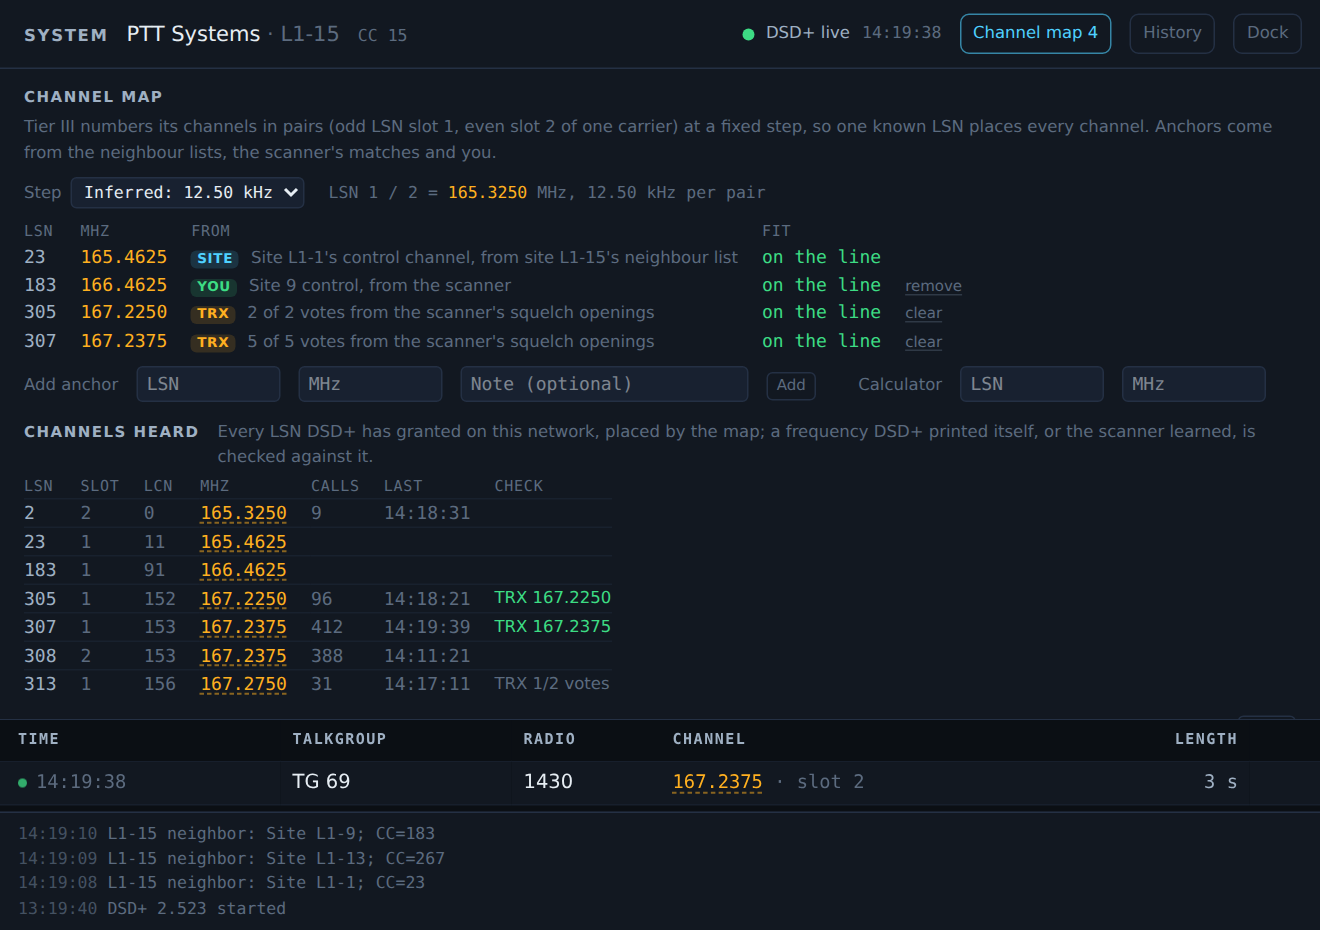
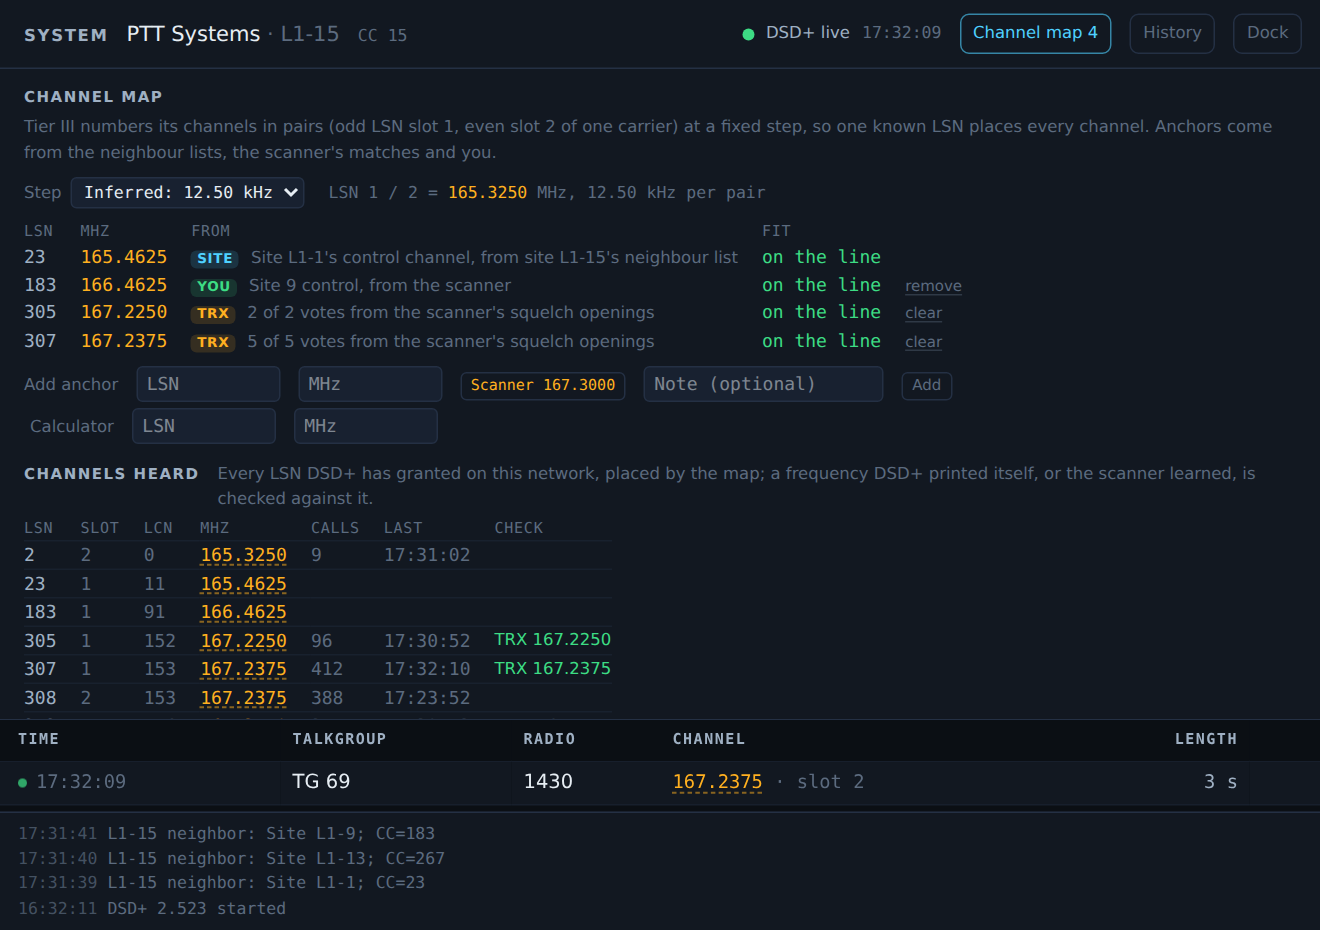
Channel map: no votes from a parked control channel, a Scanner button, the control channel from where the scanner parks
A scanner sat on a Tier III control channel (a Service Search parks on it) has its squelch flutter there every
few seconds, and every grant DSD+ printed found such a re-opening in its window: on the TfL site on 2 Oct 2026
the learner "learned" 1701 and 1716 as the control channel, 139.53125. An opening now counts only when the
scanner has just arrived on the frequency (ARRIVAL_MS, 2 s), so a stop still votes and a parked channel never does.

The add-anchor row gets a Scanner button that fills the MHz box with the frequency the scanner is on, so on a
control channel only the LSN is typed. And where the scanner parks is recorded as the site's control channel
(parkedControlChannel: squelch open 30 s on one frequency with DMR details on the display while DSD+ is live on
the site), so a neighbour list naming this site's control LSN can anchor the map and History shows the control.

Claude-Session: https://claude.ai/code/session_015KGVaMSLRV6V5Jci2arzek

diff --git a/src/main/index.ts b/src/main/index.ts
@@ -2,7 +2,7 @@ import { app, BrowserWindow, dialog, ipcMain, nativeTheme, net, safeStorage, scr
 import { readFile, writeFile } from 'node:fs/promises';
 import { existsSync, readFileSync } from 'node:fs';
 import { dirname, join } from 'node:path';
-import { Key, isKeyCode } from '@trxcontroller/rcip';
+import { Key, isKeyCode, parseScanScreen, parseSearchScreen } from '@trxcontroller/rcip';
 import { IPC, MAP_MIN_WINDOW, type AppInfo, type DayLog, type WindowState, type ImportResult, type LogCursor, type MapDockSide, type MapTarget, type PortsResult, type ReceptionRow, type RepeaterMatch, type ScannerSnapshot, type Settings, type UpdateInfo, type WtrMatch } from '../shared/ipc';
 import { isDayKey } from '../shared/dayMap';
 import { locateCdat, readCdat, writeCdat } from './programming/locate';
@@ -66,6 +66,13 @@ function saveChannels(): void {
 }
 /** The squelch as last seen, so each opening (or move while open) is one vote at most. */
 let lastSquelch: { rf: boolean; hz: number } = { rf: false, hz: 0 };
+/** The frequency the scanner is on and since when, for the learner (a stop is a fresh arrival) and the parked-control-channel fact. */
+let onFrequency: { hz: number; since: number; openSince: number | null; dmr: boolean } = { hz: 0, since: 0, openSince: null, dmr: false };
+/**
+ * A scanner whose squelch has stayed open this long on one frequency while DSD+ is decoding a site, the display showing
+ * DMR details, is sat on that site's control channel (a Service Search parks on it; a voice channel drops between calls).
+ */
+const CC_PARK_MS = 30_000;
 const mapDock: WindowDock = new WindowDock({
   main: () => win,
   win: () => mapWin,
@@ -210,6 +217,31 @@ function learnDsdSystem(s: ScannerSnapshot): void {
   publishDsd(dsd.status());
 }
 
+/**
+ * The control channel from where the scanner parks: squelch open `CC_PARK_MS` on one frequency with DMR details on the
+ * display while DSD+ is live on a site is that site's control channel (DSD+ prints it only as a channel number). Recorded
+ * as the site's fact once per session, so a neighbour list naming this site's control LSN can anchor the channel map,
+ * and the History sites table can show it. A fact from the scanner's trunked header, when there is one, was written first
+ * and stays (the upsert keeps the first frequency).
+ */
+function parkedControlChannel(): void {
+  if (!dsd || !db || onFrequency.openSince === null || !onFrequency.dmr || onFrequency.hz <= 0) return;
+  const now = Date.now();
+  if (now - onFrequency.openSince < CC_PARK_MS) return;
+  const status = dsd.status();
+  const site = status.feed.site;
+  const networkKey = status.feed.network?.key;
+  if (!site || !networkKey || !status.alive || status.feed.lastEventAt === null || now - status.feed.lastEventAt > 15_000) return;
+  const code = status.feed.nac ? `NAC ${status.feed.nac}` : status.feed.dcc !== null ? `CC ${status.feed.dcc}` : null;
+  const key = `${networkKey}|${site.id}|${onFrequency.hz}|${code ?? ''}`;
+  if (recordedSites.has(key)) return;
+  recordedSites.add(key);
+  console.log(`[dsd] site ${site.id} control channel ${(onFrequency.hz / 1e6).toFixed(5)} MHz (the scanner has sat on it ${Math.round((now - onFrequency.openSince) / 1000)} s)`);
+  db.recordDsdEvents([siteEventRow(networkKey, site.id, site.name, onFrequency.hz, code, now)]);
+  siteFactsCache = null;
+  publishDsd(status);
+}
+
 /** The identity the user confirmed for the current frequency, tone and talkgroup, if any. */
 function confirmedFor(s: ScannerSnapshot): ScannerSnapshot['confirmed'] {
   const d = describeSnapshot(s);
@@ -285,12 +317,26 @@ const session = new ScannerSession(serialTransportFactory, {
     const s = enrich(raw);
     broadcast(IPC.snapshot, s);
     logger?.onSnapshot(s);
+    // Where the scanner is and for how long: a change of frequency is an arrival, an opening on a frequency it has sat on is not a stop.
+    {
+      const now = Date.now();
+      const rf = !!s.status?.squelch.rf;
+      const hz = s.status?.frequencyHz ?? 0;
+      if (hz !== onFrequency.hz) onFrequency = { hz, since: now, openSince: null, dmr: false };
+      if (!rf) onFrequency.openSince = null;
+      else if (onFrequency.openSince === null) onFrequency.openSince = now;
+      if (rf && s.lcd) {
+        const screen = (s.status?.mode === 0x0a ? parseScanScreen(s.lcd) : null) ?? parseSearchScreen(s.lcd);
+        if (screen && (screen.colorCode !== null || screen.slot !== null)) onFrequency.dmr = true;
+      }
+    }
+    parkedControlChannel();
     // The channel learner: an opening (or a move while open) is one half of a vote, the other half DSD+'s grant.
     if (channels) {
       const now = Date.now();
       const rf = !!s.status?.squelch.rf;
       const hz = s.status?.frequencyHz ?? 0;
-      if (rf && (!lastSquelch.rf || lastSquelch.hz !== hz)) channels.opening(now, hz);
+      if (rf && (!lastSquelch.rf || lastSquelch.hz !== hz)) channels.opening(now, hz, now - onFrequency.since);
       lastSquelch = { rf, hz };
       channels.tick(now);
       if (channels.takeChanged()) {

diff --git a/docs/index.html b/docs/index.html
@@ -425,7 +425,7 @@
             <img src="img/system-history.png" alt="The System window's History view: Day / Week / Month / All, a date, counts for the period, calls per hour as small bars, a sites table with control channel, code and neighbours, a table of talkgroups with calls, radios, airtime, active period and the radios heard on each as chips, and a table of radios with their talkgroups, private-call partners, registrations and last heard" width="1320" height="930" loading="lazy">
             <figcaption>History, the network map: a recorded day on the P25 system, sites first, then the talkgroups and the radios, each linked to the other.</figcaption>
           </figure>
-          <p>On a site that is not in DSD+'s frequencies file, DSD+ prints channel numbers ("ch 306") and cannot say what frequency they are. The TRX can: each time the scanner's squelch opens within a moment of such a grant is a vote, two consistent votes learn the channel, and from then on the window shows the frequency (dotted, to say it was learned) and the TRX marker can match on it. <b>Channel map</b> (or C) goes further on a DMR Tier III network: Tier III numbers its channels in pairs (odd LSN slot 1, even slot 2 of one carrier) at a fixed step, so one known channel places every other. The panel gathers the anchors it can (a neighbour list's control channel number joined to the control frequency the scanner reported for that site, the channels learned from the scanner, and any LSN and frequency you type), infers the step (6.25 / 12.5 / 25 kHz, or choose it), draws the line, flags an anchor off it, lists every channel heard with its slot, LCN and frequency, has an LSN ↔ MHz calculator, and writes the <code>DSDPlus.frequencies</code> lines for the lot, which is what DSD+ needs to voice-follow the site itself; calls on the map show their frequency dashed, and a <b>clear</b> link beside a learned channel forgets its votes, for a frequency learned from a coincidence. Hours of working a channel plan out by hand, done as the calls land. A DMR trunked site is where this matters; P25 sites broadcast their band plan and DSD+ prints the frequency anyway.</p>
+          <p>On a site that is not in DSD+'s frequencies file, DSD+ prints channel numbers ("ch 306") and cannot say what frequency they are. The TRX can: each time the scanner's squelch opens within a moment of such a grant is a vote, two consistent votes learn the channel, and from then on the window shows the frequency (dotted, to say it was learned) and the TRX marker can match on it. <b>Channel map</b> (or C) goes further on a DMR Tier III network: Tier III numbers its channels in pairs (odd LSN slot 1, even slot 2 of one carrier) at a fixed step, so one known channel places every other. The panel gathers the anchors it can (a neighbour list's control channel number joined to the control frequency the scanner reported for that site, or sat on for half a minute while DSD+ decoded it, the channels learned from the scanner, and any LSN and frequency you type, a button filling in the frequency the scanner is on), infers the step (6.25 / 12.5 / 25 kHz, or choose it), draws the line, flags an anchor off it, lists every channel heard with its slot, LCN and frequency, has an LSN ↔ MHz calculator, and writes the <code>DSDPlus.frequencies</code> lines for the lot, which is what DSD+ needs to voice-follow the site itself; calls on the map show their frequency dashed, and a <b>clear</b> link beside a learned channel forgets its votes, for a frequency learned from a coincidence. Hours of working a channel plan out by hand, done as the calls land. A DMR trunked site is where this matters; P25 sites broadcast their band plan and DSD+ prints the frequency anyway.</p>
           <figure>
             <img src="img/system-dmr.png" alt="The System window on a DMR trunked site: PTT Systems, site L1-15, colour code 15; the Channel map panel with the step inferred as 12.5 kHz and LSN 1 at 165.3250 MHz, four anchors (a neighbour list's, a typed one, two learned from the scanner) all on the line, the add-anchor and calculator boxes, the channels heard with slot, LCN, frequency and calls, and the DSDPlus.frequencies lines to copy" width="1320" height="930" loading="lazy">
             <figcaption>A DMR Tier III site with channel numbers only: the channel map from four anchors, every channel heard placed on it, and the lines for DSD+'s frequencies file.</figcaption>

diff --git a/src/renderer/src/components/ChannelMapPanel.tsx b/src/renderer/src/components/ChannelMapPanel.tsx
@@ -22,7 +22,7 @@ const kHz = (hz: number): string => `${(hz / 1000).toFixed(hz % 1000 === 0 ? 0 :
  * with its frequency on the map, and the `DSDPlus.frequencies` lines that follow. Everything the user types is kept
  * per network in main (`dsd:map-set`); the map itself is built there so every window agrees.
  */
-export default function ChannelMapPanel({ status }: { status: DsdStatus }): React.JSX.Element {
+export default function ChannelMapPanel({ status, scannerHz }: { status: DsdStatus; scannerHz: number | null }): React.JSX.Element {
   const info = status.map;
   const map = info?.map ?? null;
   const settings: ChannelMapSettings = info?.settings ?? { stepHz: null, anchors: [] };
@@ -188,13 +188,23 @@ export default function ChannelMapPanel({ status }: { status: DsdStatus }): Reac
         <span className="text-[11px] text-ink-3">Add anchor</span>
         <input className={INPUT} placeholder="LSN" value={lsnIn} onChange={(e) => setLsnIn(e.target.value)} onKeyDown={(e) => e.key === 'Enter' && addAnchor()} />
         <input className={INPUT} placeholder="MHz" value={mhzIn} onChange={(e) => setMhzIn(e.target.value)} onKeyDown={(e) => e.key === 'Enter' && addAnchor()} />
-        <input className={`${INPUT} w-48`} placeholder="Note (optional)" value={noteIn} onChange={(e) => setNoteIn(e.target.value)} onKeyDown={(e) => e.key === 'Enter' && addAnchor()} />
+        {scannerHz !== null && scannerHz > 0 && (
+          <button
+            type="button"
+            className="no-drag rounded border border-edge px-1.5 py-px font-mono text-[10px] text-amber hover:border-amber/60"
+            title="Use the frequency the scanner is on (parked on a Tier III control channel, that is the control channel's LSN to type)"
+            onClick={() => setMhzIn(mhzText(scannerHz))}
+          >
+            Scanner {mhzText(scannerHz)}
+          </button>
+        )}
+        <input className={`${INPUT} w-40`} placeholder="Note (optional)" value={noteIn} onChange={(e) => setNoteIn(e.target.value)} onKeyDown={(e) => e.key === 'Enter' && addAnchor()} />
         <button type="button" className="no-drag rounded border border-edge px-1.5 py-px font-sans text-[10px] text-ink-3 hover:text-ink" onClick={addAnchor} disabled={!network}>
           Add
         </button>
         {map && (
-          <>
-            <span className="ml-4 text-[11px] text-ink-3">Calculator</span>
+          <span className="flex items-baseline gap-3">
+            <span className="ml-1 text-[11px] text-ink-3">Calculator</span>
             <input
               className={INPUT}
               placeholder="LSN"
@@ -214,7 +224,7 @@ export default function ChannelMapPanel({ status }: { status: DsdStatus }): Reac
               }}
             />
             <span className="font-mono text-[11px] text-ink">{calcOut()}</span>
-          </>
+          </span>
         )}
       </div>
 

diff --git a/src/shared/dsdChannels.ts b/src/shared/dsdChannels.ts
@@ -12,6 +12,13 @@ export const PAIR_BEFORE_MS = 1500;
 export const PAIR_AFTER_MS = 4000;
 /** How long unmatched grants and openings are kept waiting for their other half. */
 const KEEP_MS = 10_000;
+/**
+ * An opening counts only when the scanner has just arrived on the frequency: a stop on a voice channel is a move
+ * and an opening together. A scanner parked on a Tier III control channel (a Service Search sat on it) has its
+ * squelch flutter there every few seconds, and every grant DSD+ printed found such a re-opening in its window: on
+ * the TfL site on 2 Oct 2026 the learner "learned" 1701 and 1716 as the control channel, 139.53125, with every vote.
+ */
+export const ARRIVAL_MS = 2000;
 /** Votes needed, and the share the leading frequency must hold, before a channel counts as learned. */
 export const MIN_VOTES = 2;
 export const MIN_SHARE = 0.7;
@@ -56,8 +63,13 @@ export class ChannelLearner {
     this.tick(at);
   }
 
-  /** The TRX's squelch opened on a frequency (or it moved to another while open). */
-  opening(at: number, hz: number): void {
+  /**
+   * The TRX's squelch opened on a frequency (or it moved to another while open). `heldMs` is how long the scanner
+   * had already been sitting on the frequency: a re-opening on a frequency it has been parked on (`ARRIVAL_MS` or
+   * longer) is squelch flutter on a control channel, never a stop, and casts no vote.
+   */
+  opening(at: number, hz: number, heldMs = 0): void {
+    if (heldMs > ARRIVAL_MS) return;
     this.openings.push({ at, hz, used: false });
     this.tick(at);
   }

diff --git a/src/shared/__tests__/dsdChannels.test.ts b/src/shared/__tests__/dsdChannels.test.ts
@@ -24,6 +24,20 @@ describe('ChannelLearner', () => {
     expect(l.hzOf('L1', '305')).toBeNull();
   });
 
+  it('ignores a re-opening on a frequency the scanner has been parked on (the control channel fluttering)', () => {
+    const l = new ChannelLearner();
+    // TfL, 2 Oct 2026: the scanner sat on the control channel 139.53125 in a Service Search; every grant found a flutter there.
+    l.grant(T, 'S1 TfL', '1701');
+    l.opening(T + 400, 139_531_250, 45_000);
+    l.tick(T + 5000);
+    expect(l.learned('S1 TfL')).toEqual({});
+    // A stop: the scanner had just moved onto the frequency.
+    l.grant(T + 10_000, 'S1 TfL', '1701');
+    l.opening(T + 10_300, 140_118_750, 150);
+    l.tick(T + 15_000);
+    expect(l.learned('S1 TfL')['1701']).toEqual({ channel: '1701', hz: null, votes: 1, total: 1 });
+  });
+
   it('casts no vote when two openings or two grants fall in one window, and drops a split channel', () => {
     const l = new ChannelLearner();
     l.grant(T, 'L1', '306');

diff --git a/src/renderer/src/components/SystemApp.tsx b/src/renderer/src/components/SystemApp.tsx
@@ -192,7 +192,7 @@ export default function SystemApp() {
         </button>
       </header>
 
-      {channelsOpen && status && <ChannelMapPanel status={status} />}
+      {channelsOpen && status && <ChannelMapPanel status={status} scannerHz={onHz} />}
 
       {historyOpen ? (
         <SystemHistory network={historyNetwork} networks={networks.map((n) => n.network)} tgName={(tg) => tgName(tg)} radioName={radioName} />

diff --git a/CLAUDE.md b/CLAUDE.md
@@ -564,7 +564,11 @@ captured on 14 Sep 2026.
   calls `tick(now)` every snapshot. A grant is settled only once its window has closed (`PAIR_BEFORE_MS` 1.5 s before it,
   DSD+ stamps whole seconds; `PAIR_AFTER_MS` 4 s after, the TRX stops a moment later): exactly one frequency among the
   openings in the window, and no other grant on another channel claiming them, is one vote for channel = frequency; two
-  openings on different frequencies or two grants are ambiguous and cast none. `MIN_VOTES` (2) with `MIN_SHARE` (70 %)
+  openings on different frequencies or two grants are ambiguous and cast none. An opening counts only when the scanner has
+  just arrived on the frequency (`heldMs` ≤ `ARRIVAL_MS` 2 s, main's `onFrequency.since`): a scanner parked on a Tier III
+  control channel (a Service Search sat on it) has its squelch flutter there every few seconds, and on the TfL site on
+  2 Oct 2026 every grant found such a re-opening, so 1701 and 1716 were "learned" as the control channel 139.53125.
+  `MIN_VOTES` (2) with `MIN_SHARE` (70 %)
   makes the channel learned. Votes are per DSD+ network (`ChannelVotes`), kept in `userData/dsd-channels.json`
   (`saveChannels`, 2 s debounce, on every change). `DsdStatus.channels` is the feed network's learned map and
   `DsdStatus.protocol` the network's protocol from the groups file (its newest line's: DSD+ reclassified TIII sites in
@@ -586,7 +590,11 @@ captured on 14 Sep 2026.
   anchors on the line, each anchor carrying `fits`; a plan with more than one range (some 900 MHz systems) shows as misfits.
   `mapHz`, `mapLsn` (null off the grid by more than a tenth of a step), `channelMapLines` (one line per carrier under its slot-1
   LSN, `mhzText` four decimals or five when needed: DSD+'s own table shows 139.53125), `neighbourAnchors(sites)` (a site's
-  neighbour line `CC=63` joined to that neighbour's `controlHz` fact from `siteEventRow`). Main keeps the user's settings per
+  neighbour line `CC=63` joined to that neighbour's `controlHz` fact from `siteEventRow`, which the scanner's trunked header
+  writes in `learnDsdSystem` or main's `parkedControlChannel` writes from where the scanner parks: squelch open `CC_PARK_MS`
+  30 s on one frequency with DMR details on the display, `onFrequency.dmr`, while DSD+ is alive on a site with an event in
+  the last 15 s; once per session per site, the upsert keeping the first frequency written. The add-anchor row's
+  **Scanner** button fills the MHz box with the frequency the scanner is on, `scannerHz`). Main keeps the user's settings per
   network key as `maps` in `dsd-channels.json` (`ChannelMapSettings {stepHz | null, anchors}`, `sanitizeMapSettings` on the way
   in), builds the map onto every published status in `withMap` (user anchors + `neighbourAnchors(db.dsdSites(key))`, cached
   `SITE_FACTS_MS` 5 s, + learned channels with a frequency) as `DsdStatus.map: ChannelMapInfo {map, settings}`; IPC

diff --git a/README.md b/README.md
@@ -66,8 +66,9 @@ npm run build && npm start    # run the built app
   **Channel map** (or C) goes further on a DMR Tier III network: Tier III numbers its channels in pairs
   (odd LSN slot 1, even slot 2 of one carrier) at a fixed step, so one known channel places every other.
   The panel gathers the anchors it can (a neighbour list's control channel number joined to the control
-  frequency the scanner reported for that site, the channels learned from the scanner, and any LSN and
-  frequency you type), infers the step (6.25 / 12.5 / 25 kHz, or choose it), draws the line, flags an anchor
+  frequency the scanner reported for that site, or sat on for half a minute while DSD+ decoded it, the
+  channels learned from the scanner, and any LSN and frequency you type, a button filling in the frequency
+  the scanner is on), infers the step (6.25 / 12.5 / 25 kHz, or choose it), draws the line, flags an anchor
   off it, lists every channel heard with its slot, LCN and frequency, has an LSN ↔ MHz calculator, and
   writes the `DSDPlus.frequencies` lines for the lot, which is what DSD+ needs to voice-follow the site
   itself. Calls on the map show their frequency dashed. A **clear** link beside a learned channel forgets its
